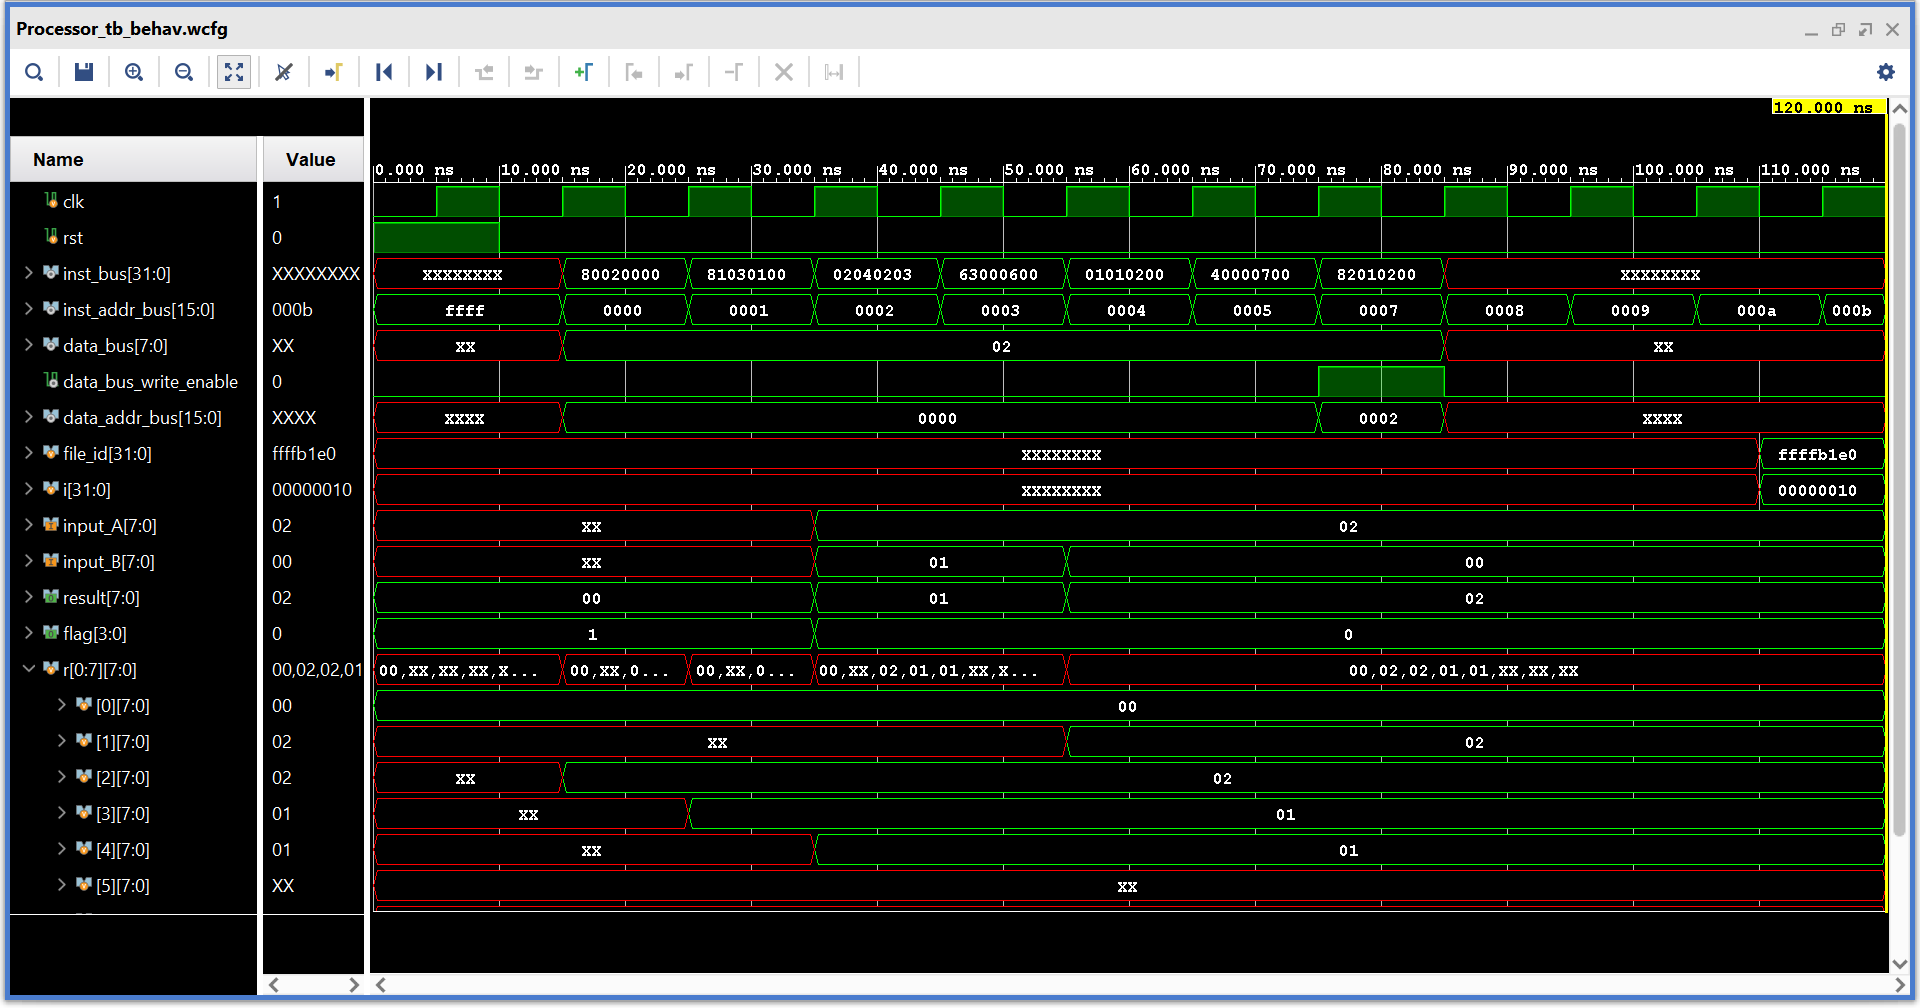
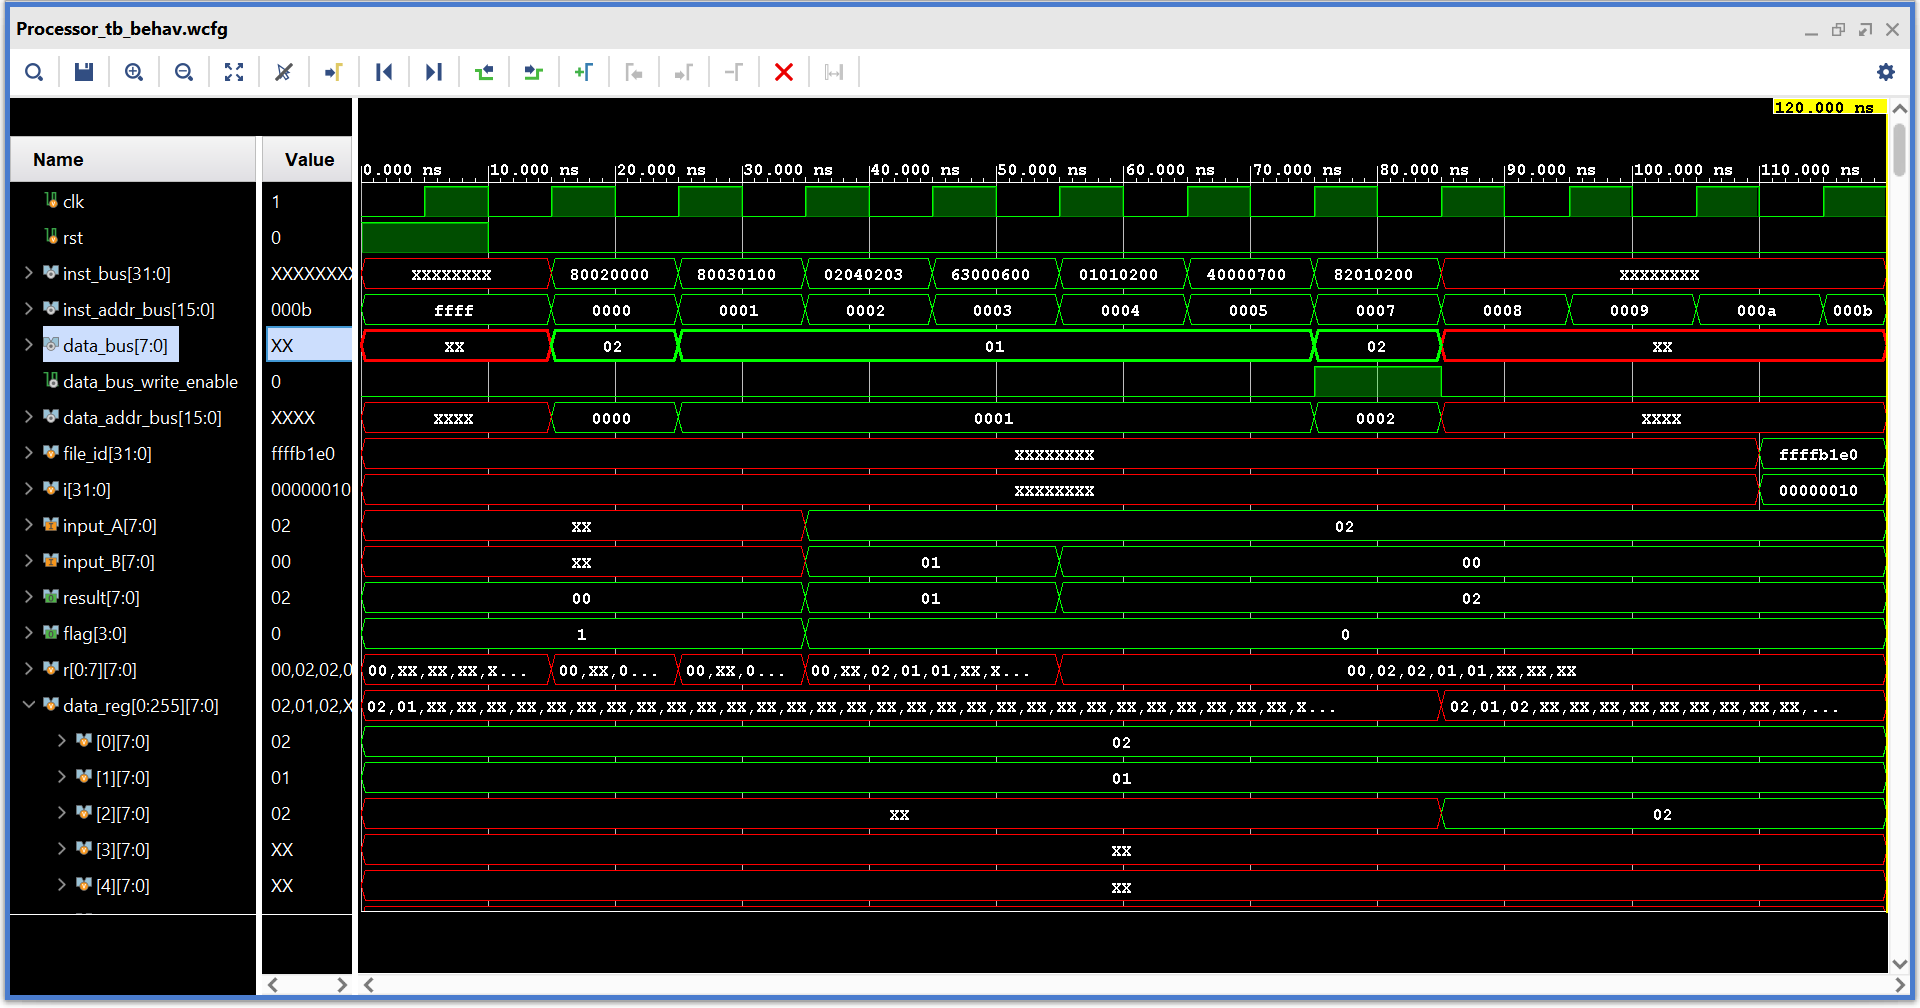
solve C flag and D flag confusion and correct instruction_memory.mem

diff --git a/README.md b/README.md
@@ -209,14 +209,13 @@ mem[f] = xx
 ```txt
 // To find the maximum of two number from data memory at address 0000H and 00001H and store the max value into data memory at address 0002H.
 80_02_00_00 // 00: R2 <- M[0000H]; load from data memory
-81_03_01_00 // 01: R3 <- M[0001H]; load from data memory
+80_03_01_00 // 01: R3 <- M[0001H]; load from data memory
 02_04_02_03 // 02: R4 <- R2 - R3; if there is carry, R3 is greater than R2 else R2 is greater than or equal to R2
 63_00_06_00 // 03: PC <- 0006H; if carry
 01_01_02_00 // 04: R1 <- R2 + R0; no carry, so R2 is greater and move to R1 (R0 is always 0)
 40_00_07_00 // 05: jump to store into data memory
 01_01_03_00 // 06: R1 <- R3 + R0; carry, so R3 is greater and move to R1
 82_01_02_00 // 07: M[0002H] <- R1; store maximum value into data memory
-
 ```
 
 ``data_memory.mem``:
